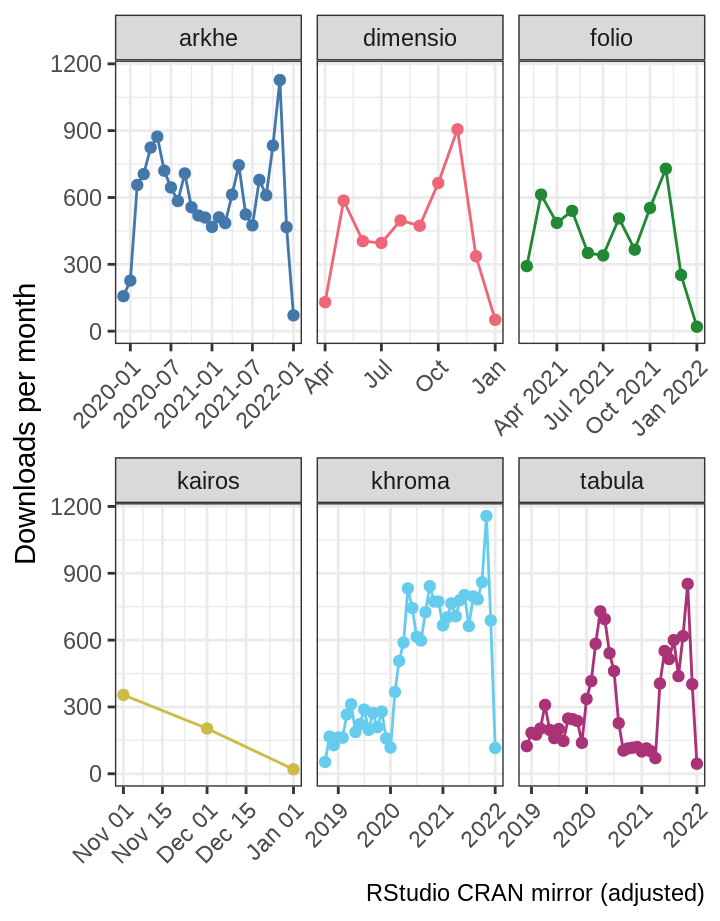
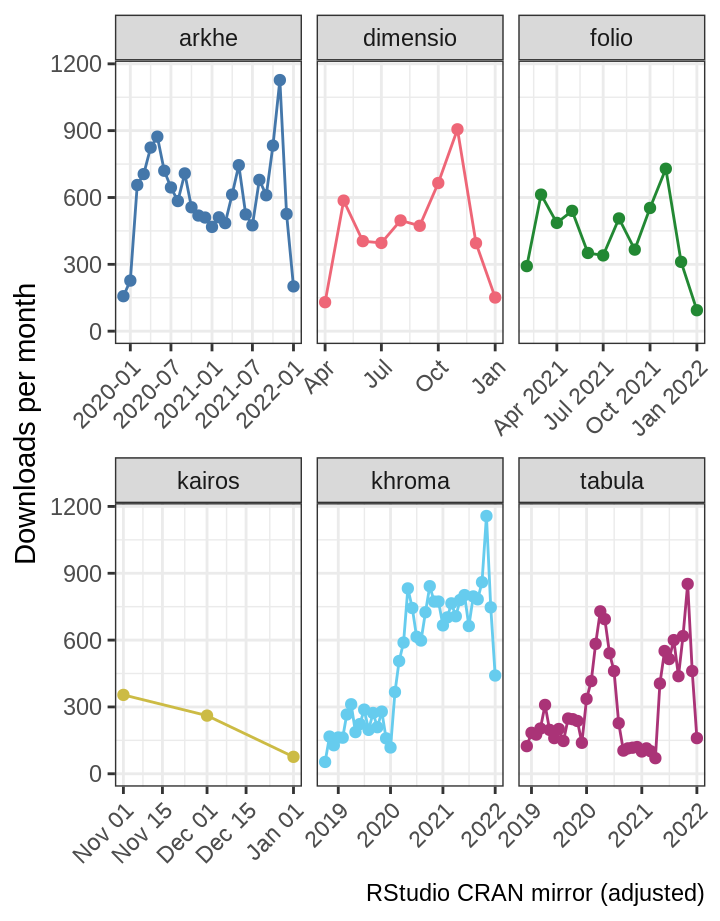
Deploying to gh-pages from @ tesselle/packages@d3522fc516f169d3a068e4e67444130023bb2bf4 🚀

diff --git a/index.html b/index.html
@@ -2659,7 +2659,7 @@ window.FlexDashboardComponents.push({
 <h2>tesselle</h2>
 <p><a href="https://www.tesselle.org/"><strong>tesselle</strong></a> is a collection of <a href="https://www.r-project.org/">R</a> packages for research and teaching in archaeology. These packages focus on quantitative analysis methods developed for archaeology.</p>
 <p>The <strong>tesselle</strong> packages are designed to work seamlessly together and to complement general-purpose and other specialized statistical packages.</p>
-<p>Last update: 2022-01-10.</p>
+<p>Last update: 2022-01-17.</p>
 </div>
 <div id="column" class="section level2 tabset">
 <h2>Column</h2>
@@ -2762,8 +2762,8 @@ window.FlexDashboardComponents.push({
 </tr>
 <tr class="even">
 <td align="left"><a href="https://cloud.r-project.org/web/checks/check_results_dimensio.html" title="CRAN check results for dimensio">dimensio</a></td>
-<td align="right">13</td>
-<td align="right">0</td>
+<td align="right">12</td>
+<td align="right">1</td>
 <td align="right">0</td>
 <td align="right">0</td>
 <td align="right">0</td>
@@ -2828,35 +2828,35 @@ CRAN downloads per month.
 </div>
 <p><span class="value-output" data-icon="fab fa-r-project" data-color="bg-success" data-href="https://cloud.r-project.org/web/checks/check_results_arkhe.html">arkhe</span></p>
 </div>
-<div id="cran-check-ok-1" class="section level3">
-<h3>CRAN check: OK</h3>
+<div id="cran-check-note" class="section level3">
+<h3>CRAN check: note</h3>
 <div class="knitr-options" data-fig-width="576" data-fig-height="460">
 
 </div>
-<p><span class="value-output" data-icon="fab fa-r-project" data-color="bg-success" data-href="https://cloud.r-project.org/web/checks/check_results_dimensio.html">dimensio</span></p>
+<p><span class="value-output" data-icon="fab fa-r-project" data-color="bg-info" data-href="https://cloud.r-project.org/web/checks/check_results_dimensio.html">dimensio</span></p>
 </div>
-<div id="cran-check-note" class="section level3">
+<div id="cran-check-note-1" class="section level3">
 <h3>CRAN check: note</h3>
 <div class="knitr-options" data-fig-width="576" data-fig-height="460">
 
 </div>
 <p><span class="value-output" data-icon="fab fa-r-project" data-color="bg-info" data-href="https://cloud.r-project.org/web/checks/check_results_folio.html">folio</span></p>
 </div>
-<div id="cran-check-ok-2" class="section level3">
+<div id="cran-check-ok-1" class="section level3">
 <h3>CRAN check: OK</h3>
 <div class="knitr-options" data-fig-width="576" data-fig-height="460">
 
 </div>
 <p><span class="value-output" data-icon="fab fa-r-project" data-color="bg-success" data-href="https://cloud.r-project.org/web/checks/check_results_kairos.html">kairos</span></p>
 </div>
-<div id="cran-check-ok-3" class="section level3">
+<div id="cran-check-ok-2" class="section level3">
 <h3>CRAN check: OK</h3>
 <div class="knitr-options" data-fig-width="576" data-fig-height="460">
 
 </div>
 <p><span class="value-output" data-icon="fab fa-r-project" data-color="bg-success" data-href="https://cloud.r-project.org/web/checks/check_results_khroma.html">khroma</span></p>
 </div>
-<div id="cran-check-ok-4" class="section level3">
+<div id="cran-check-ok-3" class="section level3">
 <h3>CRAN check: OK</h3>
 <div class="knitr-options" data-fig-width="576" data-fig-height="460">
 
